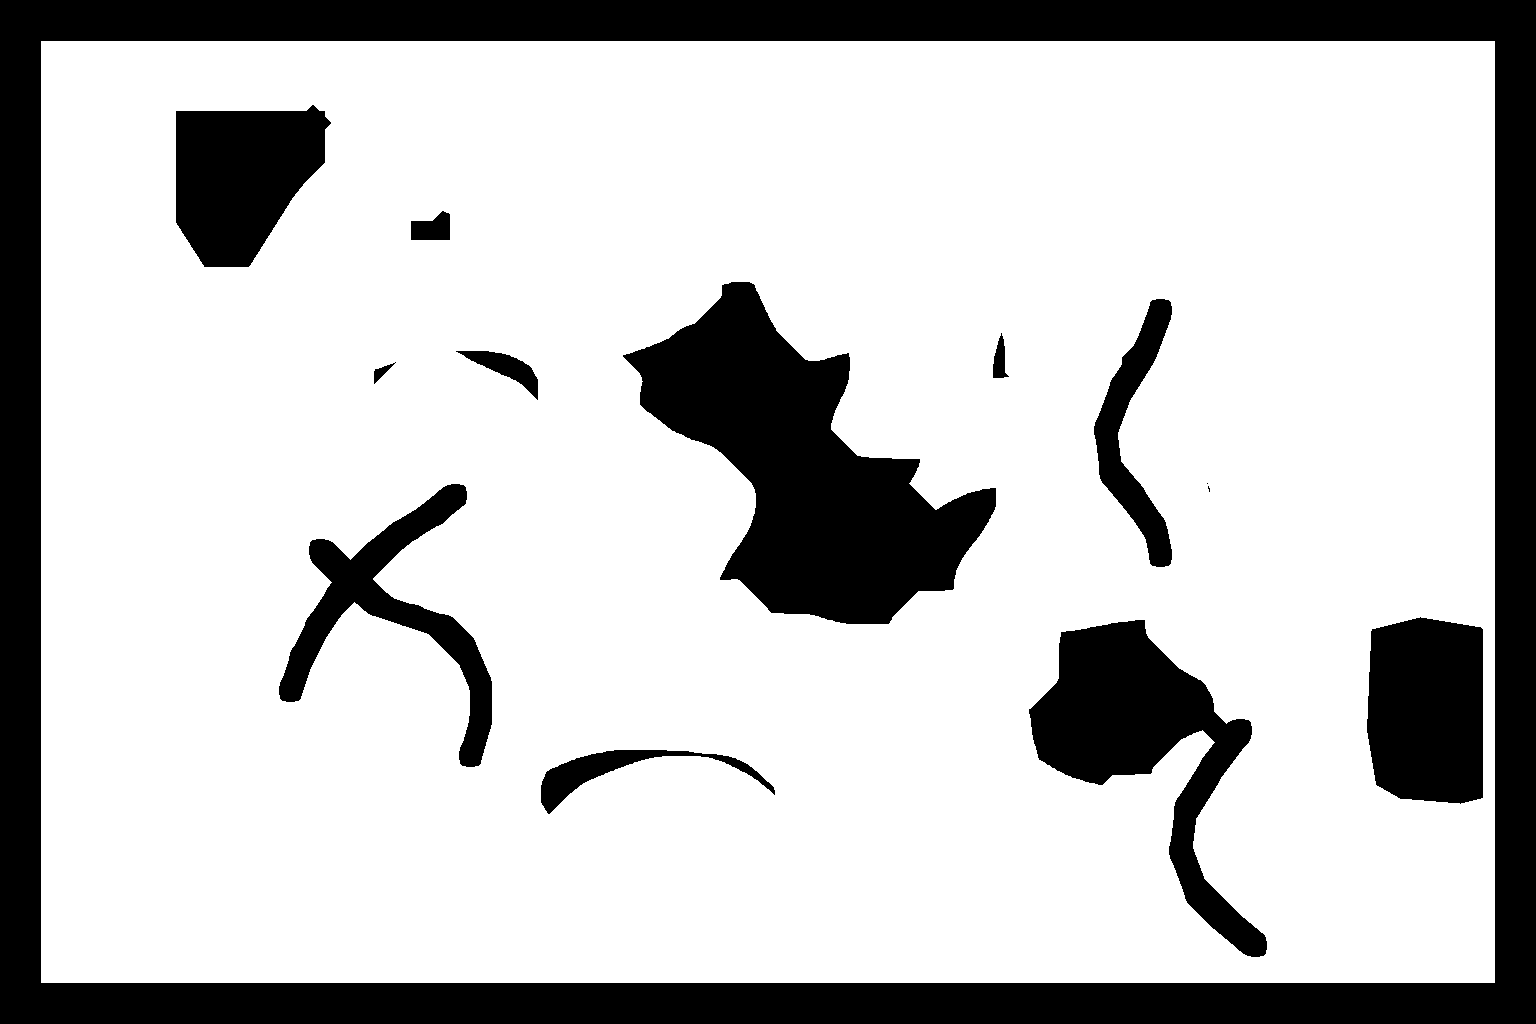
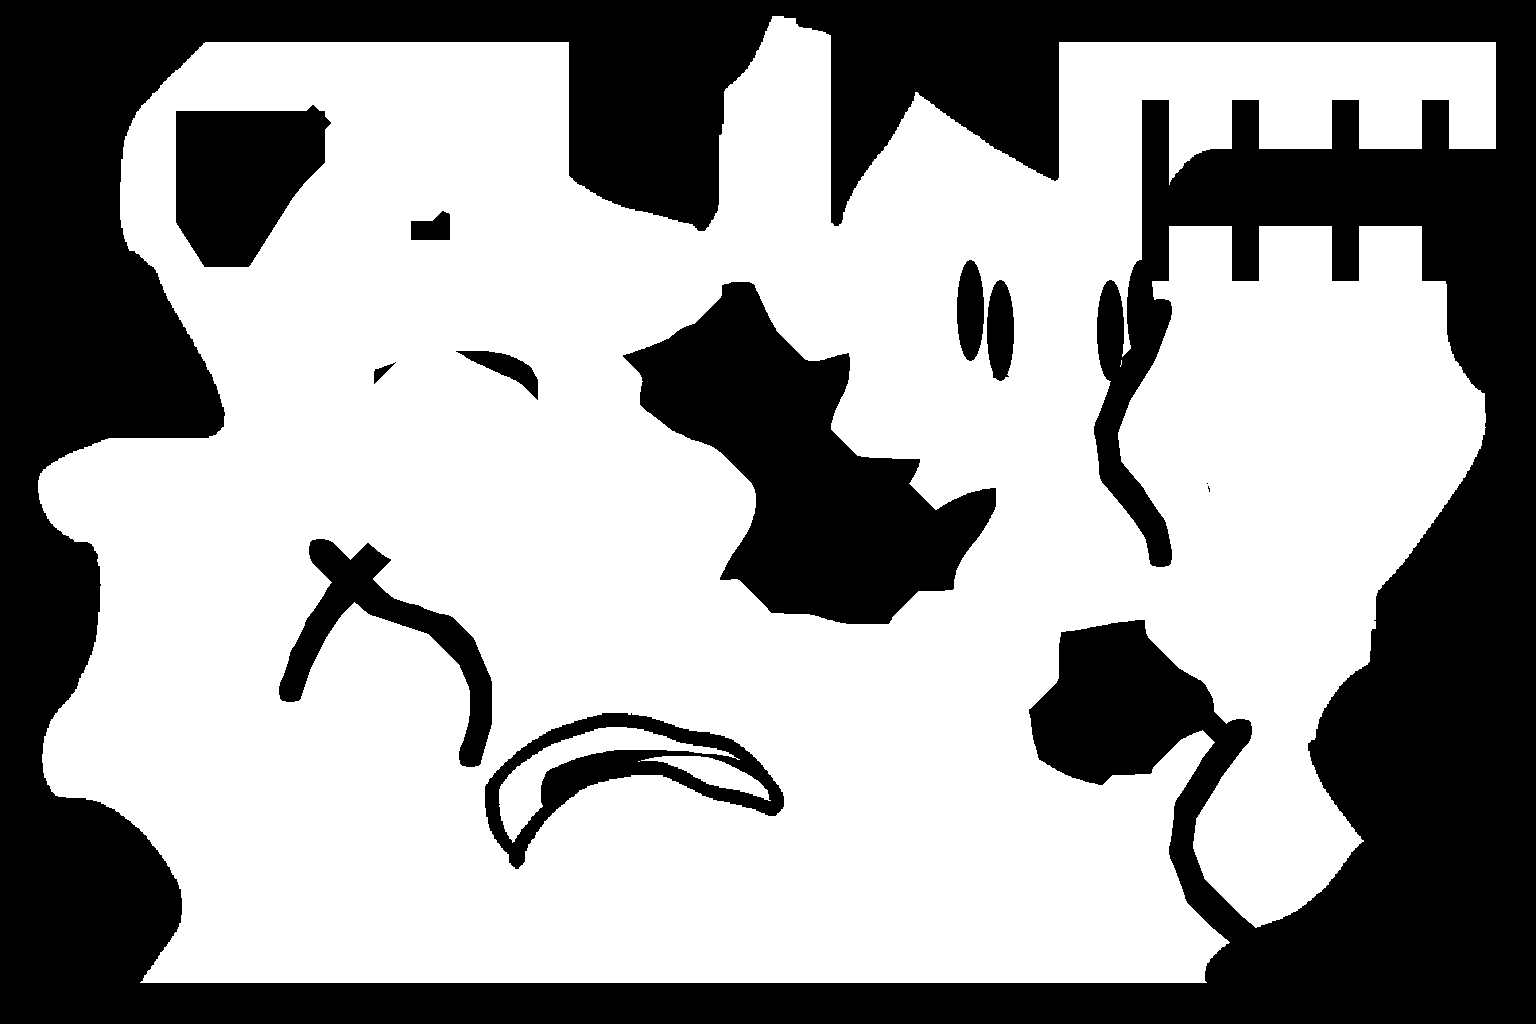
[deploy] V10.10: rebuild Level 2 border from Scarlett's hand-traced outline, block gazebo/arch pillars
Scarlett marked up the V10.9 collision screenshot directly: traced the
actual border she wants (following the tree-line/foliage edge instead
of my straight 40px band, dipping naturally around the archway and the
triple-arch area) and crossed out a spot near the fairy-ring rocks
that my tree-trunk curve had wrongly blocked.

- Extracted her traced line from the screenshot (colour + shape
  matched, filtering out false positives from lantern glow/mushroom
  colours) and used it as the new border profile on all three open
  sides (left/top/right); bottom keeps the simple straight band since
  she didn't redraw it.
- Opened up the crossed-out patch near the fairy-ring rocks.
- Also blocked the gazebo's support posts and the triple stone arch
  pillars (previously had zero collision - you could walk straight
  onto the gazebo floor through the walls, and through solid stone
  arches), while leaving the open floor/entrance and the ritual-circle
  gap between the arches walkable, since those are where
  princessQuestion and the key need to be reached.

All 8 key points (start, gate, key, princessQuestion, chainGoth,
devil's fingers, tom's journal, relationshipChallenge) confirmed
walkable and in the same connected area.

Claude-Session: https://claude.ai/code/session_01Mi8TEfe51ogE13sifMmyQt

diff --git a/js/levels/level2-walk.js b/js/levels/level2-walk.js
@@ -1,2 +1,2 @@
 /* Level 2 (Mystical Forest) walk grid - GENERATED by tools/build_level2_walk.py from tools/level2_walk_mask.png, edit that mask image and re-run. */
-export const LEVEL2_WALK_RLE = '384|384|384|384|384|384|384|384|384|384|10,364,10|10,364,10|10,364,10|10,364,10|10,364,10|10,364,10|10,364,10|10,364,10|10,364,10|10,364,10|10,364,10|10,364,10|10,364,10|10,364,10|10,364,10|10,364,10|10,68,1,295,10|10,67,3,294,10|10,34,37,293,10|10,34,38,292,10|10,34,39,291,10|10,34,38,292,10|10,34,37,293,10|10,34,37,293,10|10,34,37,293,10|10,34,37,293,10|10,34,37,293,10|10,34,37,293,10|10,34,37,293,10|10,34,37,293,10|10,34,37,293,10|10,34,36,294,10|10,34,35,295,10|10,34,34,296,10|10,34,33,297,10|10,34,32,298,10|10,34,31,299,10|10,34,31,299,10|10,34,30,300,10|10,34,29,301,10|10,34,28,302,10|10,34,28,302,10|10,34,27,303,10|10,34,26,40,2,262,10|10,34,26,39,3,262,10|10,34,25,34,9,262,10|10,35,24,34,9,262,10|10,35,23,35,9,262,10|10,36,21,36,9,262,10|10,36,21,36,9,262,10|10,37,19,308,10|10,38,17,309,10|10,38,17,309,10|10,39,15,310,10|10,40,13,311,10|10,40,13,311,10|10,41,11,312,10|10,364,10|10,364,10|10,364,10|10,173,4,187,10|10,170,9,185,10|10,170,9,185,10|10,170,10,184,10|10,170,10,184,10|10,169,11,97,6,81,10|10,168,13,96,6,81,10|10,167,14,96,6,81,10|10,166,16,95,6,81,10|10,165,17,94,7,81,10|10,164,19,93,6,82,10|10,161,22,92,7,82,10|10,160,24,91,6,83,10|10,158,27,90,6,83,10|10,157,29,54,1,33,7,83,10|10,155,32,52,2,33,6,84,10|10,152,36,51,2,32,7,84,10|10,149,40,50,2,31,8,84,10|10,105,11,30,44,10,2,37,2,30,8,85,10|10,107,12,27,45,6,5,36,3,29,9,85,10|10,109,12,26,55,36,3,29,8,86,10|10,86,2,23,11,26,54,36,3,29,8,86,10|10,84,3,26,10,26,53,36,3,28,8,87,10|10,83,3,29,9,26,52,36,4,27,7,88,10|10,83,2,33,6,26,52,66,8,88,10|10,83,1,36,4,26,52,65,8,89,10|10,121,3,26,51,66,8,89,10|10,122,2,26,51,66,7,90,10|10,123,1,26,51,66,6,91,10|10,150,50,66,7,91,10|10,150,50,66,6,92,10|10,150,49,66,7,92,10|10,151,48,66,6,93,10|10,153,45,67,6,93,10|10,154,44,66,7,93,10|10,155,43,66,6,94,10|10,157,41,65,7,94,10|10,158,40,65,7,94,10|10,160,39,64,6,95,10|10,162,38,64,5,95,10|10,165,36,63,6,94,10|10,168,34,62,6,94,10|10,169,34,61,6,94,10|10,171,33,60,6,94,10|10,172,41,51,6,94,10|10,173,47,45,5,94,10|10,174,46,45,6,93,10|10,175,44,46,7,92,10|10,176,43,46,8,91,10|10,177,41,47,9,90,10|10,178,39,48,10,89,10|10,101,5,72,40,48,9,89,10|10,100,6,73,40,16,4,28,9,88,10|10,99,8,72,41,11,8,29,9,87,10|10,97,10,72,42,8,10,30,8,87,10|10,96,10,73,43,5,12,31,8,86,10|10,95,10,74,44,2,14,32,8,85,10|10,93,11,75,59,33,8,85,10|10,92,11,75,60,34,8,84,10|10,90,12,76,59,36,8,83,10|10,88,13,77,59,37,7,83,10|10,87,12,78,59,38,8,82,10|10,86,11,80,59,39,7,82,10|10,85,11,80,59,41,6,82,10|10,83,11,82,58,42,6,82,10|10,67,6,9,11,82,58,43,6,82,10|10,67,7,7,10,83,59,44,6,81,10|10,67,8,5,10,84,58,45,6,81,10|10,67,9,3,10,84,58,46,6,81,10|10,67,10,1,10,84,58,47,6,81,10|10,68,19,85,58,47,6,81,10|10,69,17,85,58,50,2,83,10|10,70,15,86,58,135,10|10,71,13,86,59,135,10|10,72,11,87,59,135,10|10,73,11,91,53,136,10|10,72,13,91,52,136,10|10,71,15,91,49,138,10|10,71,16,91,41,145,10|10,70,18,91,39,146,10|10,70,8,1,12,89,37,147,10|10,69,8,3,15,86,35,148,10|10,68,8,5,16,85,33,149,10|10,67,8,7,19,91,22,150,10|10,67,8,10,18,93,17,131,3,17,10|10,66,8,14,16,96,12,57,7,64,13,11,10|10,66,7,18,14,159,12,60,23,5,10|10,65,8,21,12,153,17,57,28,3,10|10,65,7,25,10,148,22,56,28,3,10|10,64,7,27,10,147,22,56,28,3,10|10,64,7,28,10,146,23,55,28,3,10|10,63,7,30,9,146,24,54,28,3,10|10,63,7,31,9,145,25,53,28,3,10|10,62,7,33,8,145,26,51,29,3,10|10,62,7,34,7,145,27,50,29,3,10|10,62,6,36,7,144,28,49,29,3,10|10,62,6,37,6,144,29,48,29,3,10|10,61,6,38,7,143,31,46,29,3,10|10,61,6,39,6,143,32,45,29,3,10|10,60,7,39,7,142,34,43,29,3,10|10,60,6,41,6,141,37,41,29,3,10|10,60,6,41,6,140,38,41,29,3,10|10,60,6,41,6,139,40,40,29,3,10|10,60,5,42,6,138,42,39,29,3,10|10,60,5,42,6,137,43,39,29,3,10|10,107,6,136,44,39,29,3,10|10,107,6,135,45,39,29,3,10|10,107,6,134,46,39,29,3,10|10,107,6,134,47,38,29,3,10|10,107,6,135,47,37,29,3,10|10,107,6,135,48,1,6,29,29,3,10|10,107,6,135,55,29,29,3,10|10,106,6,136,42,1,12,29,29,3,10|10,106,6,136,40,4,11,29,29,3,10|10,106,6,136,38,7,10,29,29,3,10|10,106,5,137,36,10,8,30,29,3,10|10,105,6,138,34,10,8,31,29,3,10|10,105,6,32,14,92,33,10,8,32,29,3,10|10,105,6,27,31,80,32,10,9,33,28,3,10|10,105,5,24,18,16,6,76,30,10,9,34,28,3,10|10,105,5,22,16,23,5,75,28,11,8,35,28,3,10|10,106,3,20,17,27,4,76,25,11,8,36,28,3,10|10,127,16,32,4,75,24,11,8,36,28,3,10|10,126,15,36,3,76,18,14,8,37,28,3,10|10,126,12,40,3,78,8,21,7,39,27,3,10|10,125,11,44,2,80,4,21,8,39,27,3,10|10,125,10,46,2,103,8,41,26,3,10|10,125,8,49,2,102,7,43,25,3,10|10,125,7,51,1,101,8,45,23,3,10|10,125,6,153,8,48,20,4,10|10,125,5,154,7,61,4,8,10|10,126,3,154,8,73,10|10,126,2,155,7,74,10|10,283,7,74,10|10,283,6,75,10|10,283,6,75,10|10,283,6,75,10|10,283,6,75,10|10,283,5,76,10|10,283,5,76,10|10,282,6,76,10|10,282,6,76,10|10,282,6,76,10|10,282,7,75,10|10,282,7,75,10|10,283,6,75,10|10,283,7,74,10|10,284,6,74,10|10,284,7,73,10|10,285,6,73,10|10,285,7,72,10|10,285,8,71,10|10,286,8,70,10|10,286,9,69,10|10,286,10,68,10|10,287,10,67,10|10,288,10,66,10|10,289,10,65,10|10,290,10,64,10|10,291,10,63,10|10,292,10,62,10|10,293,10,61,10|10,294,11,59,10|10,295,11,58,10|10,296,10,58,10|10,297,10,57,10|10,299,8,57,10|10,300,6,58,10|10,301,5,58,10|10,364,10|10,364,10|10,364,10|10,364,10|10,364,10|10,364,10|10,364,10|384|384|384|384|384|384|384|384|384|384';
+export const LEVEL2_WALK_RLE = '384|384|384|384|193,6,185|192,7,185|192,8,184|192,12,180|191,16,177|191,17,176|51,91,48,18,57,109,10|50,92,48,18,57,109,10|49,93,47,19,57,109,10|48,94,47,19,57,109,10|47,95,46,20,57,109,10|46,96,45,21,57,109,10|45,97,45,21,57,109,10|44,98,44,22,57,109,10|43,99,43,23,57,109,10|42,100,42,24,57,109,10|41,101,41,25,57,109,10|40,102,40,26,57,109,10|39,103,39,27,57,109,10|38,104,39,27,21,1,35,109,10|37,105,39,27,20,3,34,109,10|36,106,39,27,20,4,33,20,7,16,7,18,7,15,7,12,10|35,43,1,63,39,27,20,6,31,20,7,16,7,18,7,15,7,12,10|35,42,3,62,39,27,19,8,30,20,7,16,7,18,7,15,7,12,10|34,10,37,61,39,27,18,10,29,20,7,16,7,18,7,15,7,12,10|33,11,38,60,39,27,18,12,27,20,7,16,7,18,7,15,7,12,10|33,11,39,59,39,27,17,14,26,20,7,16,7,18,7,15,7,12,10|32,12,38,60,38,28,17,16,24,20,7,16,7,18,7,15,7,12,10|32,12,37,61,38,28,16,18,23,20,7,16,7,18,7,15,7,12,10|32,12,37,61,38,28,15,21,21,20,7,16,7,18,7,15,7,12,10|31,13,37,61,38,28,15,22,20,20,7,16,7,18,7,15,7,12,10|31,13,37,61,38,28,14,24,19,20,7,16,7,18,7,15,7,12,10|31,13,37,61,38,28,13,27,17,20,7,16,7,18,7,15,7,12,10|31,13,37,61,38,28,13,29,15,20,7,9,83|31,13,37,61,38,28,11,33,13,20,7,7,85|31,13,37,61,38,28,11,35,11,20,7,6,86|30,14,37,61,38,28,10,37,10,20,7,4,88|30,14,36,62,38,28,9,40,8,20,7,4,88|30,14,35,63,38,28,8,43,6,20,7,3,89|30,14,34,64,38,28,8,45,4,20,7,2,90|30,14,33,66,37,28,7,48,1,21,7,1,91|30,14,32,68,36,28,6,71,99|30,14,31,71,34,28,6,71,99|30,14,31,72,33,28,5,72,99|30,14,30,75,31,28,5,72,99|30,14,29,77,30,28,4,73,99|30,14,28,81,27,28,4,73,99|30,14,28,83,24,29,3,74,99|30,14,27,88,20,29,3,74,99|30,14,26,40,2,51,16,29,3,74,99|30,14,26,39,3,55,11,30,3,74,99|30,14,25,34,9,59,7,30,2,75,99|30,15,24,34,9,62,3,108,7,16,7,18,7,15,29|31,14,23,35,9,62,2,109,7,16,7,18,7,15,29|31,15,21,36,9,173,7,16,7,18,7,15,29|31,15,21,36,9,173,7,16,7,18,7,15,29|32,15,19,219,7,16,7,18,7,15,29|32,16,17,220,7,16,7,18,7,15,29|32,16,17,220,7,16,7,18,7,15,29|35,14,15,221,7,16,7,18,7,15,29|36,14,13,222,7,16,7,18,7,15,29|37,13,13,178,3,40,8,16,7,18,7,15,29|38,13,11,179,3,39,9,16,7,18,7,15,29|39,201,5,38,9,16,7,18,7,15,29|39,201,5,38,9,16,7,18,7,15,29|40,200,5,37,10,16,7,18,7,15,29|40,143,4,53,5,4,2,25,3,3,6,73,23|41,139,9,51,5,3,4,24,3,3,6,74,22|41,139,9,50,7,2,4,23,5,2,6,74,22|41,139,10,49,7,2,4,23,5,2,6,74,22|42,138,10,49,7,1,6,22,5,2,6,74,22|42,137,11,49,7,1,6,22,5,2,11,69,22|43,135,13,48,7,1,6,22,5,2,11,69,22|43,134,14,48,7,1,6,21,7,1,11,69,22|44,132,16,47,7,1,6,21,7,1,11,69,22|45,130,17,47,7,1,6,21,7,1,11,69,22|45,129,19,46,7,1,6,21,7,1,10,70,22|46,125,22,46,7,1,6,21,7,1,10,70,22|46,124,24,45,7,1,6,21,7,1,9,71,22|47,121,27,45,5,2,6,21,7,1,9,71,22|48,119,29,44,5,2,6,21,7,1,9,71,22|48,117,32,43,5,2,6,21,7,1,8,72,22|49,113,36,42,5,2,6,21,7,2,7,73,21|49,110,40,41,5,2,6,21,7,1,8,73,21|50,65,11,30,44,10,2,29,3,3,6,22,5,1,8,74,21|50,67,12,27,45,6,5,29,3,3,6,22,14,75,20|51,68,12,26,55,35,6,22,13,76,20|51,45,2,23,11,26,54,36,4,23,13,77,19|52,42,3,26,10,26,53,36,4,23,12,79,18|53,40,3,29,9,26,52,36,4,24,10,80,18|53,40,2,33,6,26,52,37,2,25,10,81,17|53,40,1,36,4,26,52,65,8,83,16|54,77,3,26,51,66,8,84,15|54,78,2,26,51,66,7,86,14|55,78,1,26,51,66,6,88,13|55,105,50,66,7,88,13|55,105,50,66,6,89,13|55,105,49,66,7,89,13|56,105,48,66,6,90,13|56,107,45,67,6,90,13|56,108,44,66,7,90,13|56,109,43,66,6,91,13|56,111,41,65,7,91,13|55,113,40,65,7,91,13|54,116,39,64,6,92,13|27,145,38,64,5,92,13|24,151,36,63,6,90,14|22,156,34,62,6,90,14|19,160,34,61,6,90,14|17,164,33,60,6,89,15|15,167,41,51,6,89,15|13,170,47,45,5,88,16|12,172,46,45,6,87,16|11,174,44,46,7,85,17|10,176,43,46,8,83,18|10,177,41,47,9,82,18|9,179,39,48,10,80,19|9,179,40,48,9,79,20|9,180,40,16,4,28,9,78,20|10,179,41,11,8,29,9,76,21|10,179,42,8,10,30,8,75,22|10,179,43,5,12,31,8,74,22|10,179,44,2,14,32,8,72,23|11,178,59,33,8,71,24|11,177,60,34,8,70,24|12,176,59,36,8,68,25|12,176,59,37,7,67,26|13,174,59,38,8,66,26|15,172,59,39,7,65,27|16,170,59,41,6,64,28|17,169,58,42,6,63,29|22,55,6,102,58,43,6,63,29|23,54,7,7,2,91,59,44,6,61,30|23,54,8,5,4,90,58,45,6,60,31|24,53,9,3,6,88,58,46,6,59,32|24,53,10,1,9,85,58,47,6,59,32|24,54,19,85,58,47,6,58,33|25,54,17,85,58,50,2,59,34|25,55,15,86,58,110,35|25,56,13,86,59,109,36|25,57,11,87,59,108,37|25,58,11,91,53,108,38|25,57,13,91,52,107,39|25,56,15,91,49,108,40|25,56,16,91,41,115,40|25,55,18,91,39,116,40|25,55,8,1,12,89,37,117,40|25,54,8,3,15,86,35,118,40|25,53,8,5,16,85,33,119,40|24,53,8,7,19,91,22,120,40|24,53,8,10,18,93,17,121,40|24,52,8,14,16,96,12,57,7,58,40|24,52,7,18,14,159,12,58,40|24,51,8,21,12,153,17,57,41|24,51,7,25,10,148,22,56,41|24,50,7,27,10,147,22,56,41|23,51,7,28,10,146,23,55,41|23,50,7,30,9,146,24,54,41|23,50,7,31,9,145,25,53,41|23,49,7,33,8,145,26,51,42|22,50,7,34,7,145,27,50,42|22,50,6,36,7,144,28,49,42|21,51,6,37,6,144,29,47,43|21,50,6,38,7,143,31,43,45|20,51,6,39,6,143,32,41,46|20,50,7,39,7,142,34,38,47|19,51,6,41,6,141,37,35,48|19,51,6,41,6,140,38,34,49|19,51,6,41,6,139,40,32,50|18,52,5,42,6,138,42,30,51|17,53,5,42,6,137,43,30,51|16,101,6,136,44,29,52|15,102,6,135,45,29,52|14,103,6,134,46,28,53|14,103,6,27,7,100,47,26,54|13,104,6,24,16,95,47,25,54|12,105,6,20,23,92,48,1,6,17,54|12,105,6,17,29,89,55,16,55|12,104,6,16,10,13,11,86,42,1,12,16,55|11,105,6,14,9,19,15,79,40,4,11,16,55|11,105,6,12,8,25,15,76,38,7,10,16,55|11,105,5,12,6,31,14,74,36,10,8,15,57|11,104,6,10,6,39,9,74,34,10,8,16,57|11,104,6,9,5,18,14,13,6,73,33,10,8,17,57|10,105,6,8,5,14,31,4,5,71,32,10,9,17,57|10,105,5,8,4,12,18,16,11,71,30,10,9,19,56|10,105,5,6,5,11,24,15,9,71,28,11,8,20,56|11,105,3,6,4,10,29,15,8,72,25,11,8,21,56|11,113,4,9,34,14,7,72,24,11,8,22,55|11,112,4,9,37,14,5,74,18,14,8,23,55|11,111,5,9,18,13,7,14,5,76,8,21,7,25,54|12,110,4,9,14,21,6,14,4,78,4,21,8,25,54|12,109,4,10,12,25,8,11,4,101,8,27,53|13,108,4,10,10,29,11,7,3,101,7,28,53|14,107,4,10,9,31,13,4,4,99,8,29,52|21,100,4,10,7,36,13,1,4,98,8,31,51|25,96,4,10,6,41,14,98,7,32,51|26,95,4,11,4,45,11,97,8,33,50|29,92,4,10,4,50,6,98,7,35,49|30,91,4,9,4,53,3,99,7,36,48|31,91,3,8,4,156,6,37,48|33,89,4,6,4,157,6,38,47|34,88,4,5,4,158,6,39,46|35,87,4,4,5,158,6,40,45|36,87,4,3,4,159,5,41,45|37,86,4,2,4,160,5,42,44|38,86,9,159,6,42,44|38,87,7,160,6,41,45|39,87,6,160,6,40,46|40,87,4,161,7,39,46|41,86,4,161,7,38,47|41,86,4,162,6,37,48|42,86,2,163,7,35,49|43,251,6,35,49|43,251,7,33,50|44,251,6,32,51|44,251,7,30,52|45,250,8,28,53|45,251,8,26,54|45,251,9,24,55|45,251,10,22,56|45,252,10,20,57|45,253,10,17,59|45,254,10,15,60|45,255,10,13,61|45,256,10,10,63|45,257,10,6,66|45,258,10,2,69|44,260,80|43,262,79|43,263,78|42,265,77|41,265,78|41,264,79|40,264,80|39,264,81|38,264,82|38,263,83|37,264,83|36,265,83|36,265,83|35,267,82|384|384|384|384|384|384|384|384|384|384';

diff --git a/js/levels/level1.js b/js/levels/level1.js
@@ -5,7 +5,7 @@ import { actionHint, hintHTML } from '../controls.js?v=9820';
 // V9.94: Level 2 runs on this same engine (createLevel1(ui, { level: 2 })). Its settings live in
 // level2-config.js; the parts this file doesn't have (Find the Princess, Devil's Fingers, Sophia)
 // are borrowed from level2.js. With no level option everything below behaves exactly as Level 1.
-import { LEVEL2 } from './level2-config.js?v=10090';
+import { LEVEL2 } from './level2-config.js?v=10100';
 import { createLevel2 } from './level2.js?v=9950';
 import { createFoe, preloadLevel2Foes } from './level2-foes.js?v=9960';   // V9.96: Devil's Fingers + Sophia on this fight screen
 // Game clock: normal time, but it stands still while a tutorial pop-up is open (so nothing happens behind it).

diff --git a/js/game.js b/js/game.js
@@ -1,6 +1,6 @@
 import { StoryController } from './story.js?v=9820';
-import { createLevel1, resetRingTutorials } from './levels/level1.js?v=10090';
-import { LEVEL2 } from './levels/level2-config.js?v=10090';   // V9.94: Level 2 runs on the Level 1 engine
+import { createLevel1, resetRingTutorials } from './levels/level1.js?v=10100';
+import { LEVEL2 } from './levels/level2-config.js?v=10100';   // V9.94: Level 2 runs on the Level 1 engine
 import { createLevel3 } from './levels/level3.js?v=9850';
 import { playMusic, setLoopSfx, playSfx, audioNeedsClick, playVoiceLine, stopVoiceLine } from './audio.js?v=9820';
 import { initSettings, openSettings } from './settings.js?v=9820';

diff --git a/js/levels/level2-config.js b/js/levels/level2-config.js
@@ -11,7 +11,7 @@
    To check positions against the collision, open the game with ?level=2&walk=1.
 
    PLACEHOLDER ART is marked "placeholder" below - Scarlett is making the real screens. */
-import { LEVEL2_WALK_RLE } from './level2-walk.js?v=10090';
+import { LEVEL2_WALK_RLE } from './level2-walk.js?v=10100';
 
 const ENC = 'assets/encounters/level2/';
 

diff --git a/index.html b/index.html
@@ -10,8 +10,8 @@
 </head>
 <body>
   <main id="app"><div id="game-root"></div></main>
-  <div id="gg-ver">V10.9</div>
-  <script type="module" src="js/game.js?v=10090"></script>
+  <div id="gg-ver">V10.10</div>
+  <script type="module" src="js/game.js?v=10100"></script>
   <script type="module" src="js/screen-polish.js?v=9820"></script>
 </body>
 </html>
